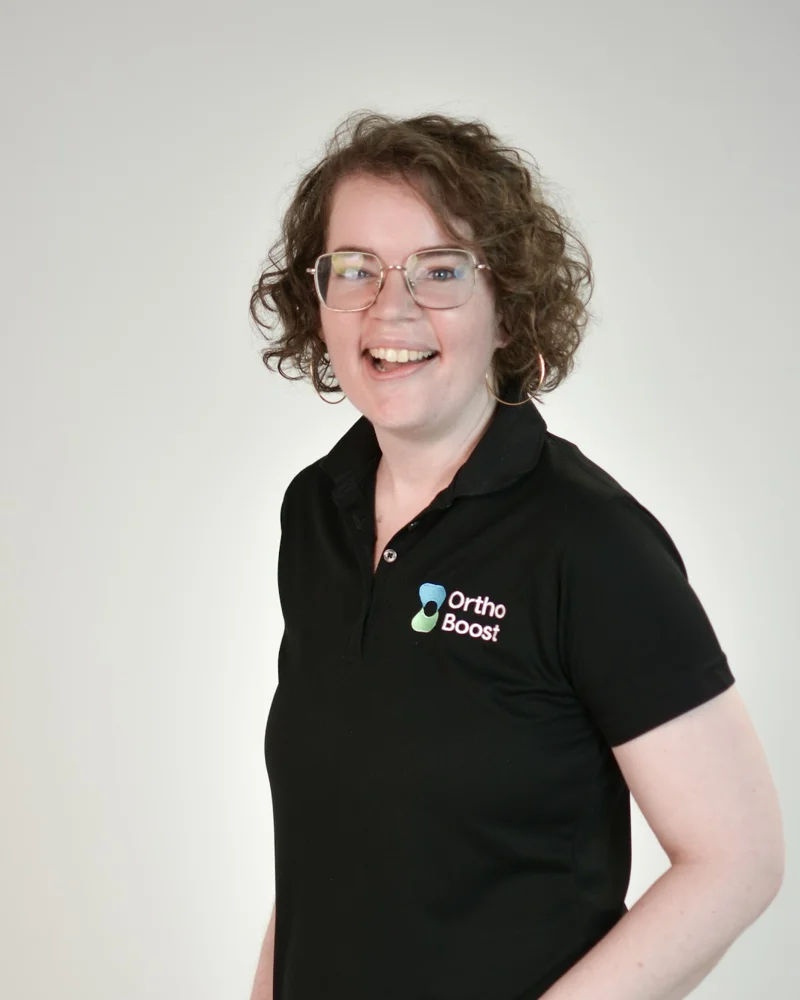
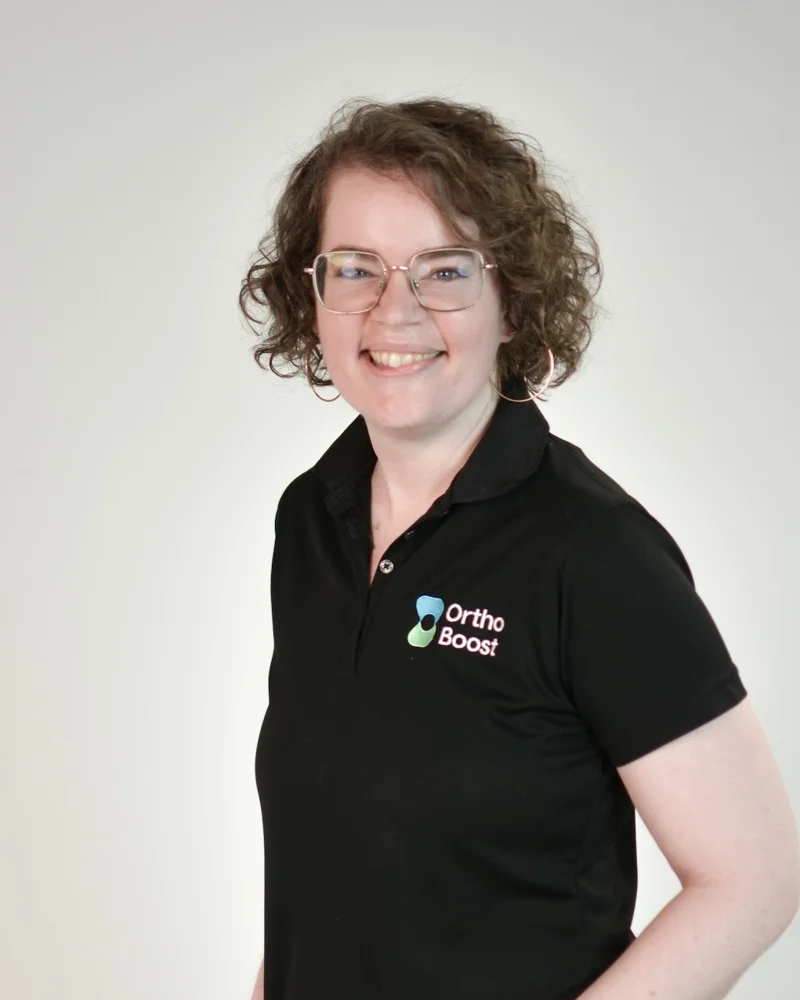
About: swap in more flattering team photos for Stephani & Amy
Tyler picked steph-006 (front-facing, warm smile) and amy-003 (front-facing, big smile)
from the studio shoot. Pulled fresh full-res from Drive, face-cropped to the standard
4:5 framing. Cache-bust (?v=2) so the new shots show immediately. Charlotte unchanged.

diff --git a/about.html b/about.html
@@ -719,7 +719,7 @@ footer{background:var(--navy);color:var(--white);border-top:1px solid var(--w-16
     <div class="team-grid">
       <article class="tm-card rv">
         <div class="tm-photo">
-          <img src="/assets/team/stephani-martin.webp" alt="Stephani Martin" loading="lazy" style="width:100%;height:100%;object-fit:cover">
+          <img src="/assets/team/stephani-martin.webp?v=2" alt="Stephani Martin" loading="lazy" style="width:100%;height:100%;object-fit:cover">
         </div>
         <div class="tm-body">
           <h3>Stephani Martin</h3>
@@ -739,7 +739,7 @@ footer{background:var(--navy);color:var(--white);border-top:1px solid var(--w-16
       </article>
       <article class="tm-card rv rv-d3">
         <div class="tm-photo">
-          <img src="/assets/team/amy.webp" alt="Amy Percy, client account manager" loading="lazy" style="width:100%;height:100%;object-fit:cover">
+          <img src="/assets/team/amy.webp?v=2" alt="Amy Percy, client account manager" loading="lazy" style="width:100%;height:100%;object-fit:cover">
         </div>
         <div class="tm-body">
           <h3>Amy Percy</h3>
